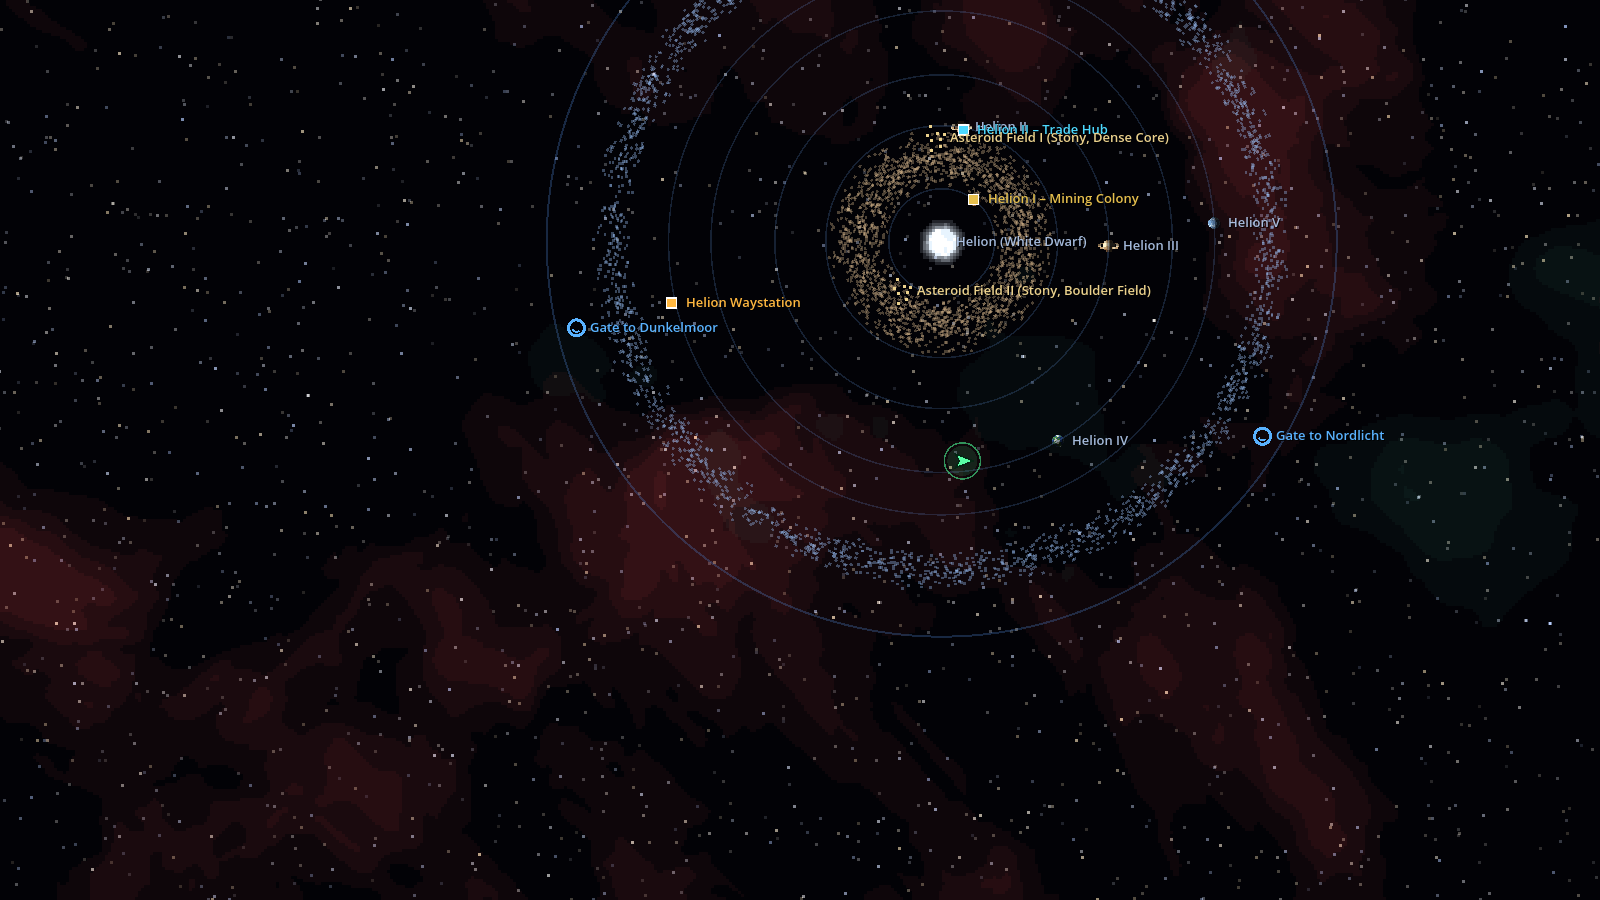
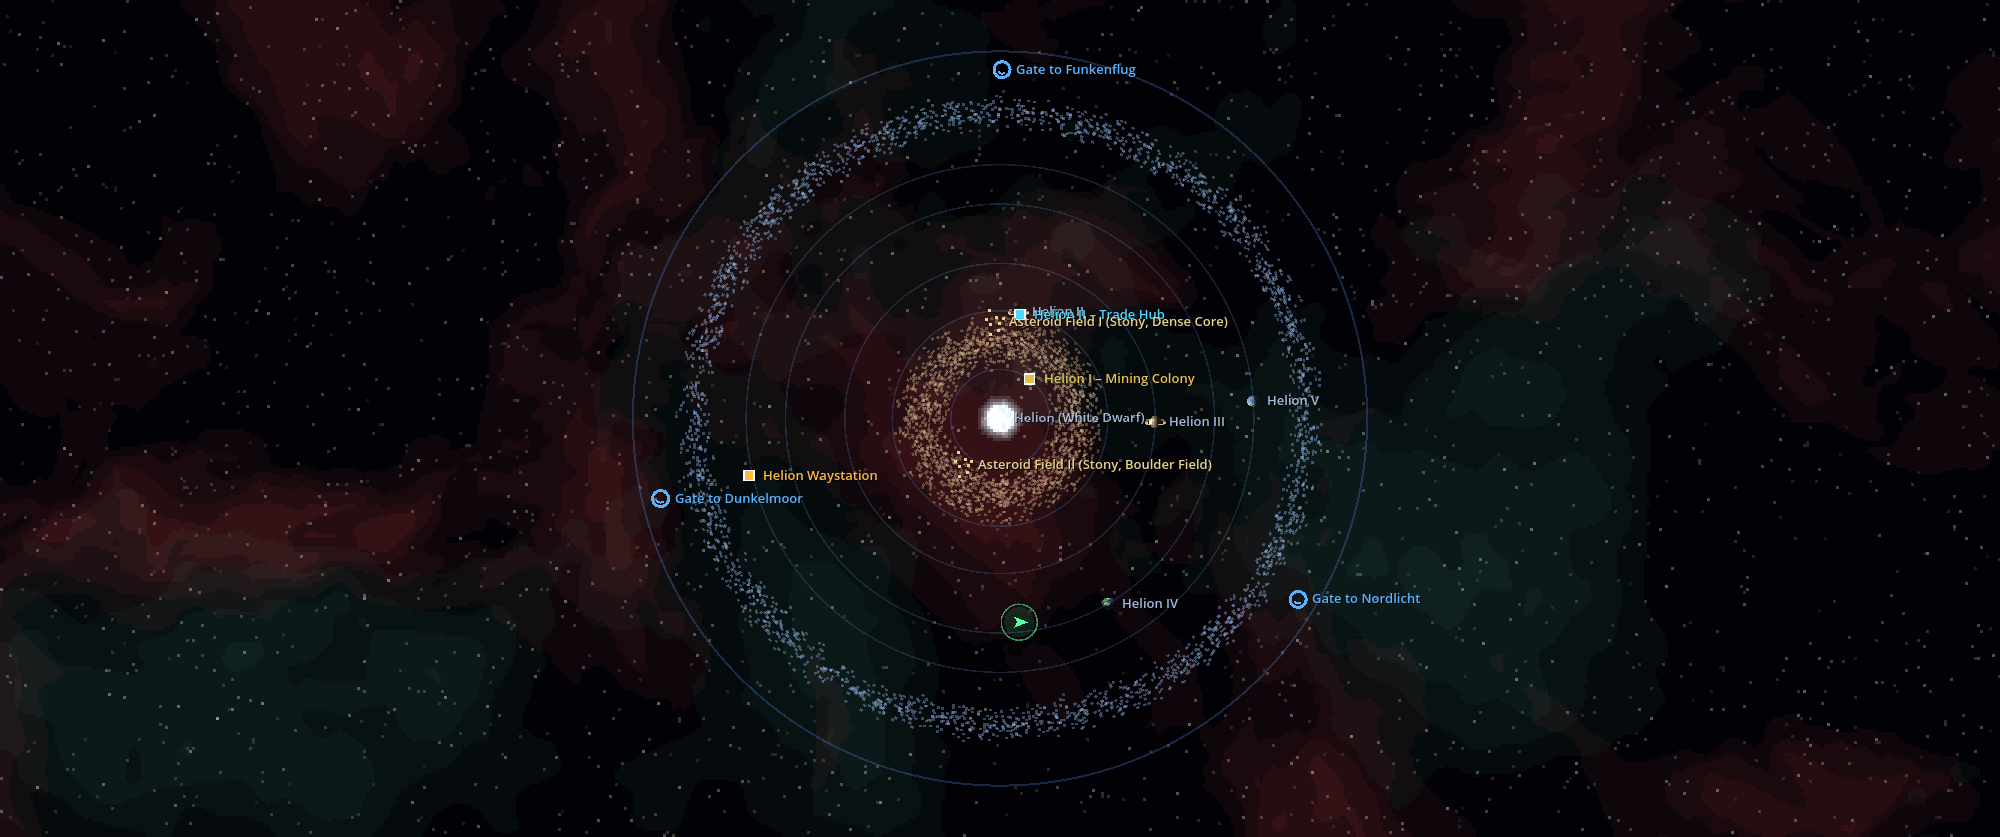
alpha 0.6.35.2: system map centred again

diff --git a/Roadmap.md b/Roadmap.md
@@ -17,7 +17,7 @@ Sternenfront ist ein Einzelspieler-Spiel mit zuschaltbarem Koop – wie Valheim 
 
 ## Aktueller Stand
 
-Das Spiel ist ein umfangreicher Einzelspieler-Prototyp in Godot 4.3. Phase 0 und Phase 0.5 Teil 1 bis 3 sind abgeschlossen; Teil 4 (Module and Internal Ship Parts Rework) läuft – Pakete 19 bis 24 fertig, Pakete 25a (KHI-Bergbauschiffe), 25b (Kanayama-maru), 25c (Maison Aurelle), 25d (Hadrian Dynamics), 25e (Concord Fleetworks), 25f (Forge of Return) und 25g (Axiom Astronautics) fertig – damit sind alle Manufakturen gebaut; Paket 26 (Stationstyp 0: Raststationen mit Landeplattformen) fertig; Paket 27 (Stationsübersicht, Ausrüster, Kurzbeschreibungen, Geschwindigkeit) fertig – damit sind alle Pakete von Teil 4 umgesetzt. Code-Review von Teil 4 gemacht (Bericht `reviews/teil4_review.md`), alle Befunde sind abgearbeitet (0.4.25.46 und 0.4.25.47) – Teil 4 abgeschlossen. **Teil 5 läuft:** Paket 28a (Audio-Grundgerüst), die Menüsteuerung per Tastatur und Paket 28 (Pilot & Charaktererstellung) und Paket 29 (Fähigkeiten + Pilot-Fenster) fertig, Fortschritts-Mechanik am 7. Nov neu entschieden (Fähigkeiten automatisch, Pilotenlevel, Perks, Skilltree über Leistungen); Paket 30 (Perks, Skilltree über Leistungen, Baupläne) fertig und der Skilltree in 0.5.30.2 als gezeichneter Baum nach Tätigkeiten neu gebaut (alles kaufbar, nutzbar erst mit Kachel), Paket 31 (Crew-System & The Bar, mit 32 zusammengelegt) fertig, Paket 31a (Game Over: Rettungskapseln, Rückkauf, Respawn) fertig, Paket 33 (Wingmen und Citadel-Plattform) fertig, Paket 34 (Codex-Einträge, Sammlung, berüchtigte Piraten als Charaktere mit Wild-West-Steckbrief) fertig – damit sind alle Pakete von Teil 5 umgesetzt. Code-Review von Teil 5 gemacht (Bericht `reviews/teil5_review.md`), alle Befunde in 0.5.34.4 behoben – **Teil 5 abgeschlossen**. **Teil 6 läuft:** Paket 35 (Systeme ×3, Asteroiden- und Kuipergürtel, neue Asteroidenfelder, mehr Verkehr, Ladebildschirm und Vorladen) fertig. Netzwerk fehlt noch. Teile 5–9 sind geplant (aus dem Roadmap-Entwurf übernommen, zuletzt am 7. Nov 2026: Teile 8 und 9, Audio-Grundgerüst 28a, Lade-Grundlagen in Paket 35, Code-Review am Ende jedes Teils), Phase 1 und 2 getauscht (erst Story & Endgame, dann Koop). Version alpha 0.6.35.1. Stand 8. November 2026.
+Das Spiel ist ein umfangreicher Einzelspieler-Prototyp in Godot 4.3. Phase 0 und Phase 0.5 Teil 1 bis 3 sind abgeschlossen; Teil 4 (Module and Internal Ship Parts Rework) läuft – Pakete 19 bis 24 fertig, Pakete 25a (KHI-Bergbauschiffe), 25b (Kanayama-maru), 25c (Maison Aurelle), 25d (Hadrian Dynamics), 25e (Concord Fleetworks), 25f (Forge of Return) und 25g (Axiom Astronautics) fertig – damit sind alle Manufakturen gebaut; Paket 26 (Stationstyp 0: Raststationen mit Landeplattformen) fertig; Paket 27 (Stationsübersicht, Ausrüster, Kurzbeschreibungen, Geschwindigkeit) fertig – damit sind alle Pakete von Teil 4 umgesetzt. Code-Review von Teil 4 gemacht (Bericht `reviews/teil4_review.md`), alle Befunde sind abgearbeitet (0.4.25.46 und 0.4.25.47) – Teil 4 abgeschlossen. **Teil 5 läuft:** Paket 28a (Audio-Grundgerüst), die Menüsteuerung per Tastatur und Paket 28 (Pilot & Charaktererstellung) und Paket 29 (Fähigkeiten + Pilot-Fenster) fertig, Fortschritts-Mechanik am 7. Nov neu entschieden (Fähigkeiten automatisch, Pilotenlevel, Perks, Skilltree über Leistungen); Paket 30 (Perks, Skilltree über Leistungen, Baupläne) fertig und der Skilltree in 0.5.30.2 als gezeichneter Baum nach Tätigkeiten neu gebaut (alles kaufbar, nutzbar erst mit Kachel), Paket 31 (Crew-System & The Bar, mit 32 zusammengelegt) fertig, Paket 31a (Game Over: Rettungskapseln, Rückkauf, Respawn) fertig, Paket 33 (Wingmen und Citadel-Plattform) fertig, Paket 34 (Codex-Einträge, Sammlung, berüchtigte Piraten als Charaktere mit Wild-West-Steckbrief) fertig – damit sind alle Pakete von Teil 5 umgesetzt. Code-Review von Teil 5 gemacht (Bericht `reviews/teil5_review.md`), alle Befunde in 0.5.34.4 behoben – **Teil 5 abgeschlossen**. **Teil 6 läuft:** Paket 35 (Systeme ×3, Asteroiden- und Kuipergürtel, neue Asteroidenfelder, mehr Verkehr, Ladebildschirm und Vorladen) fertig. Netzwerk fehlt noch. Teile 5–9 sind geplant (aus dem Roadmap-Entwurf übernommen, zuletzt am 7. Nov 2026: Teile 8 und 9, Audio-Grundgerüst 28a, Lade-Grundlagen in Paket 35, Code-Review am Ende jedes Teils), Phase 1 und 2 getauscht (erst Story & Endgame, dann Koop). Version alpha 0.6.35.2. Stand 8. November 2026.
 
 | Bereich | Stand |
 | --- | --- |
@@ -1461,6 +1461,7 @@ Jedes Paket mit eigenen Debug-Funktionen (z. B. zu jedem Systemtyp springen, Ste
 - [x] **Asteroidenfelder neu:** Metall- und Gesteinsfelder liegen **im Asteroidengürtel**, Eisfelder **im Kuipergürtel** (ohne Gürtel wie bisher in Bahnzonen). Radius 20.000–40.000 km statt 10.000–16.000, im Schnitt dichter (≈ 0,22 Brocken je 1.000 km², eng geklumpt) und in **fünf Stilen**: Clustered, Band (entlang der Bahn gestreckt), Dense Core (dichter Kern mit mehr großen Brocken), Boulder Field (wenige große) und Gravel Field (viele kleine). Der Stil steht im Feldnamen.
 - [x] **Mehr Verkehr:** Shuttles, Bergbauschiffe, wartende Frachter, Feld- und Torwachen, Piraten etwa anderthalbfach; Obergrenze 60 → 90 Schiffe je System.
 - [x] **Laden:** kurzer **Ladebildschirm** beim Start aus dem Hauptmenü; dahinter werden alle Asteroidenbilder des Systems vorab erzeugt und der **Colossus-Shader vorkompiliert** – der Ruckler beim Einfliegen in Felder mit Colossi ist weg. Beim **Hypersprung** wird das Zielsystem während des Tunnels vorbereitet. Unsichtbare Asteroiden kosten keine Rechenzeit mehr.
+- [x] **0.6.35.2:** Die Systemkarte ist wieder mittig – auf den Stern zentriert (Godots Standard-Kameragrenze von ±10 Mio. km hatte die Karte der größeren Systeme zur Seite geschoben); beim Wechsel zwischen Karte und Nahansicht gleitet die Kamera kurz.
 - [x] **Debug** (Debug-Menü → World): Ladezeit des letzten Systems und Vorlade-Statistik, „Into the asteroid belt“ / „Into the Kuiper belt“.
 
 ### Entscheidungen zu Teil 6

diff --git a/CHANGELOG.md b/CHANGELOG.md
@@ -3,6 +3,10 @@
 Versions follow **alpha Phase.Teil.Paket.laufende Nummer** (see Roadmap.md → Arbeitsweise & Übergabe).
 Every update gets its own entry, a commit and a git tag `v<version>`.
 
+## alpha 0.6.35.2 – 2026-11-08
+
+**System map centred again:** the map is centred on the star (Godot's default camera limits had pushed the map of the bigger systems aside); the camera glides between map and close view.
+
 ## alpha 0.6.35.1 – 2026-11-08
 
 **Part 6 begins – package 35: system scale.** A new game is needed.
